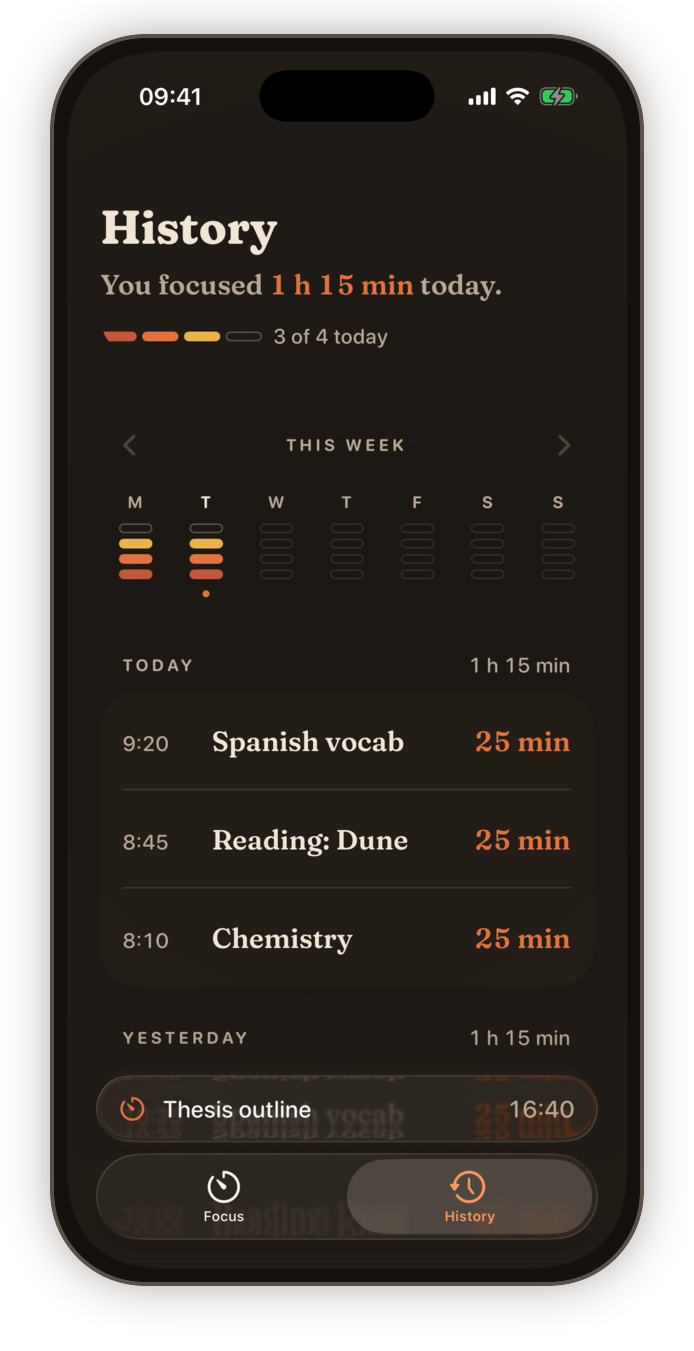
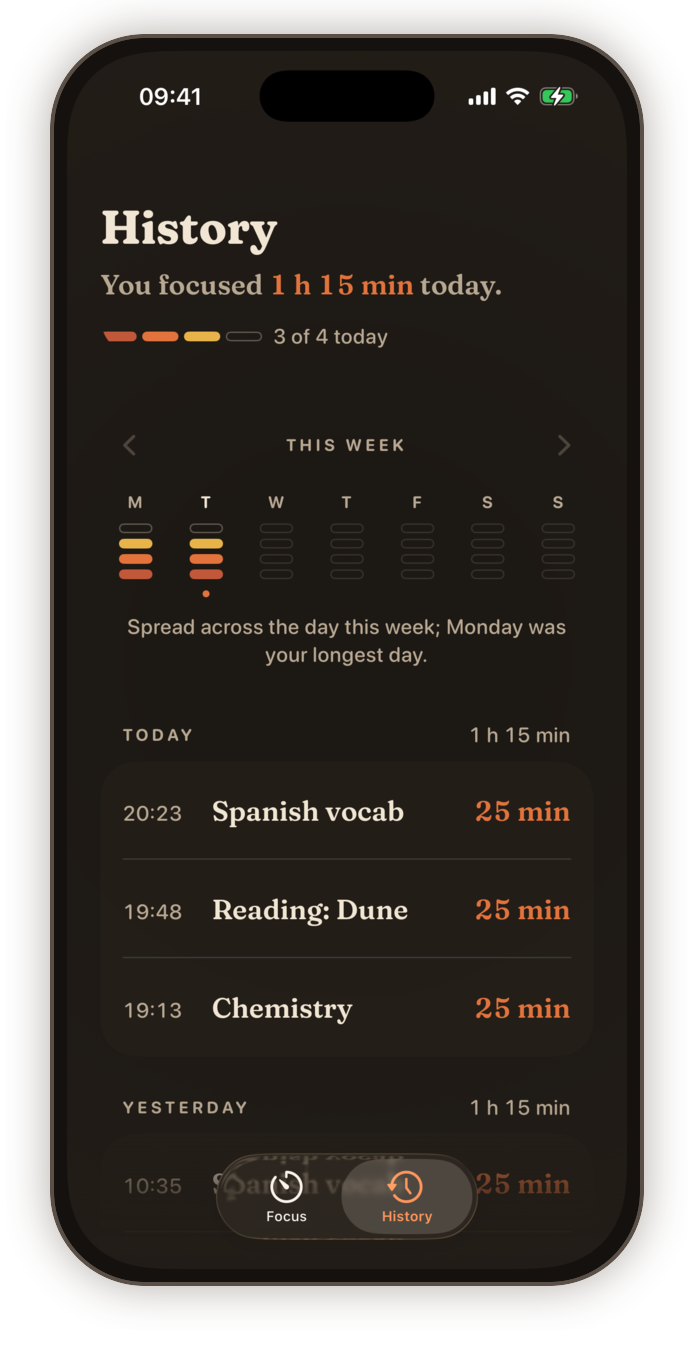
README: the drag dial, the calm running screen and the week line
New Focus and History screenshots: the dial set to 35 minutes with its
custom chip, and History with the sentence about the week.

diff --git a/README.md b/README.md
@@ -9,12 +9,13 @@ A retro, one-thing-at-a-time focus timer for iPhone. Name what you're working on
 ## Features
 
 - **One session at a time:** focus, pause and resume, or cancel without recording (and undo the cancel for a few seconds). The break starts manually and never counts as focus time.
-- **Your rhythm:** Classic 25/5, Deep 50/10 or Short 15/3, and a 15-minute long break after every fourth full session of the day. "+5 min" in the last five minutes, and "Finish now" to stop early and keep the minutes. Pick the length from chips under the dial, or in Settings; it applies from the next session.
+- **Your rhythm:** Classic 25/5, Deep 50/10 or Short 15/3, and a 15-minute long break after every fourth full session of the day. "+5 min" in the last five minutes, and "Finish now" to stop early and keep the minutes. Pick the length from chips under the dial or in Settings, or drag the dial's knob like a kitchen timer to any length from 5 to 60 minutes, one detent per five minutes (its break is a fifth of it, 3 to 15 minutes). It applies from the next session.
+- **Calm while it runs:** eight seconds after your last touch, everything round a running dial fades back to the countdown and Pause; a tap brings it back. It stays put while paused, in the last five minutes and with VoiceOver or Switch Control. A paused dial goes still and sepia, and the header says when you paused.
 - **Survives relaunch:** the timer is date-based, so a running session is restored exactly after the app is closed or the phone restarts. A session that finished while the app was closed opens quietly, saying when it finished.
 - **Keeps up with the clock:** "today" moves on at midnight, and on time zone and clock changes, everywhere at once. Setting the clock back can't add time to a session.
-- **History:** today's focused minutes, then a week at a time as session columns and sessions by day, paging back to the first one. Tap a session for its card: when it ran, focused and planned minutes, how it ended and whether it counts toward the set, with Rename and Delete. Swipe to delete too; both offer Undo.
+- **History:** today's focused minutes, then a week at a time as session columns and sessions by day, paging back to the first one. Tap a session for its card: when it ran, focused and planned minutes, how it ended and whether it counts toward the set, with Rename and Delete. Swipe to delete too; both offer Undo. Under the week, one line sums it up ("Mostly mornings this week; Tuesday was your longest day."). On iPhones with Apple Intelligence the on-device model writes it, from session times and lengths only, never names; everywhere else it's a fixed sentence.
 - **Appearance:** System, Light or Dark in Settings, following the phone by default.
-- **Your data:** export History as CSV, back it up as JSON and restore it, or erase it, all from Settings. Nothing leaves the phone unless you export it.
+- **Your data:** export History as CSV, back it up as JSON and restore it, or erase it, all from Settings. Nothing leaves the phone unless you export it; week summaries use Apple's on-device model, and can be turned off.
 - **Live Activity:** a Lock Screen card and Dynamic Island with a live countdown and a pause/resume button that works without opening the app.
 - **StandBy and bedside mode:** a full-screen bedside clock when the phone is charging on its side, and a bedside clock inside the app: open it from Settings during a session (it turns the screen even with orientation lock on) or turn the phone on its side. It uses a night palette, and the screen stays on only while the clock runs.
 - **Home Screen widget:** today's progress in small and medium sizes, including tinted and clear Home Screens; tapping it opens the Focus screen. Away from Focus, a running session also sits above the tab bar.
@@ -24,7 +25,7 @@ A retro, one-thing-at-a-time focus timer for iPhone. Name what you're working on
 ## Accessibility
 
 - **Contrast:** every colour that carries words reaches WCAG AA (4.5:1) on both paper tones, in light and dark, and AAA (7:1) with Increase Contrast. A test reads the colours from the asset catalog and checks every pair.
-- **VoiceOver:** the dial says "24 minutes left", updating about once a minute, with Pause/Resume as an action and on the magic tap. Durations are read in words, the week strip names each date and says "today", and every widget and Lock Screen surface has its own labels.
+- **VoiceOver:** the dial says "24 minutes left", updating about once a minute, with Pause/Resume as an action and on the magic tap. While waiting, swipe up or down on it to change the length by five minutes. Durations are read in words, the week strip names each date and says "today", and every widget and Lock Screen surface has its own labels.
 - **Voice Control:** every control answers to what's on screen, e.g. "Tap What are you focusing on" or "Tap Add 5 minutes".
 - **Large text:** the Focus screen scrolls rather than pushing controls off-screen, even at the largest sizes on an iPhone SE. Rows and the completion summary stack, and icon-only buttons offer the Large Content Viewer.
 - **Reduce Motion and Differentiate Without Color:** every animation has a calm fallback, and the session in progress is a dashed pill, not just a different colour.
@@ -33,11 +34,11 @@ A retro, one-thing-at-a-time focus timer for iPhone. Name what you're working on
 
 | Focus | Running | Complete |
 |:---:|:---:|:---:|
-| <img src="docs/screenshots/focus-idle.png" width="250" alt="Focus screen with the length chips, ready to start"> | <img src="docs/screenshots/focus-running.png" width="250" alt="A focus session running"> | <img src="docs/screenshots/focus-complete.png" width="250" alt="Session complete with the sunburst"> |
+| <img src="docs/screenshots/focus-idle.png" width="250" alt="Focus screen with the dial set to 35 minutes and the length chips"> | <img src="docs/screenshots/focus-running.png" width="250" alt="A focus session running"> | <img src="docs/screenshots/focus-complete.png" width="250" alt="Session complete with the sunburst"> |
 
 | History | Session card | Settings |
 |:---:|:---:|:---:|
-| <img src="docs/screenshots/history.png" width="250" alt="History with the week's session columns"> | <img src="docs/screenshots/session-card.png" width="250" alt="A session's card, with Rename and Delete"> | <img src="docs/screenshots/settings.png" width="250" alt="Settings with lengths, appearance and the bedside clock"> |
+| <img src="docs/screenshots/history.png" width="250" alt="History with the week's session columns and a line about the week"> | <img src="docs/screenshots/session-card.png" width="250" alt="A session's card, with Rename and Delete"> | <img src="docs/screenshots/settings.png" width="250" alt="Settings with lengths, appearance and the bedside clock"> |
 
 | Lock Screen | Home Screen widget |
 |:---:|:---:|
